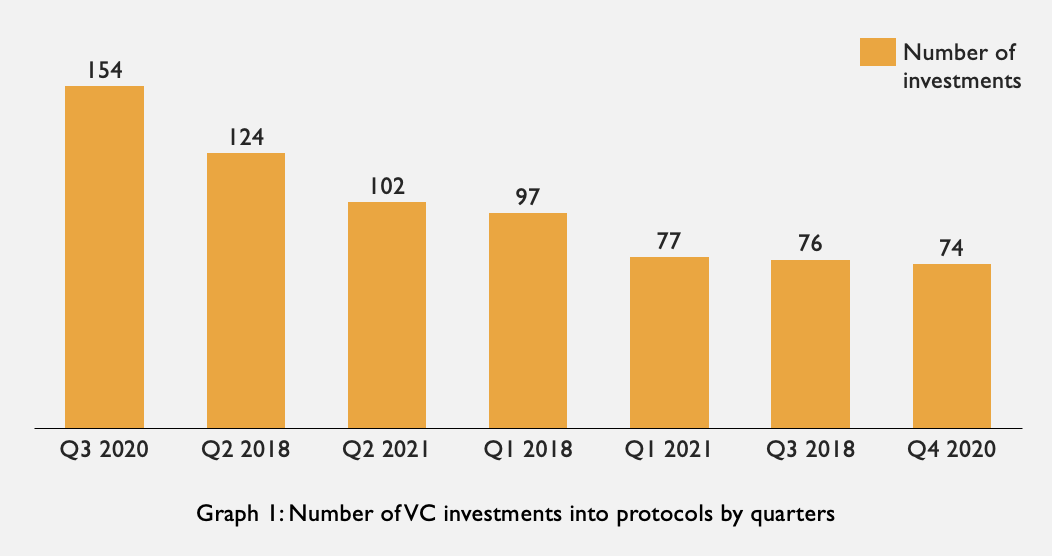
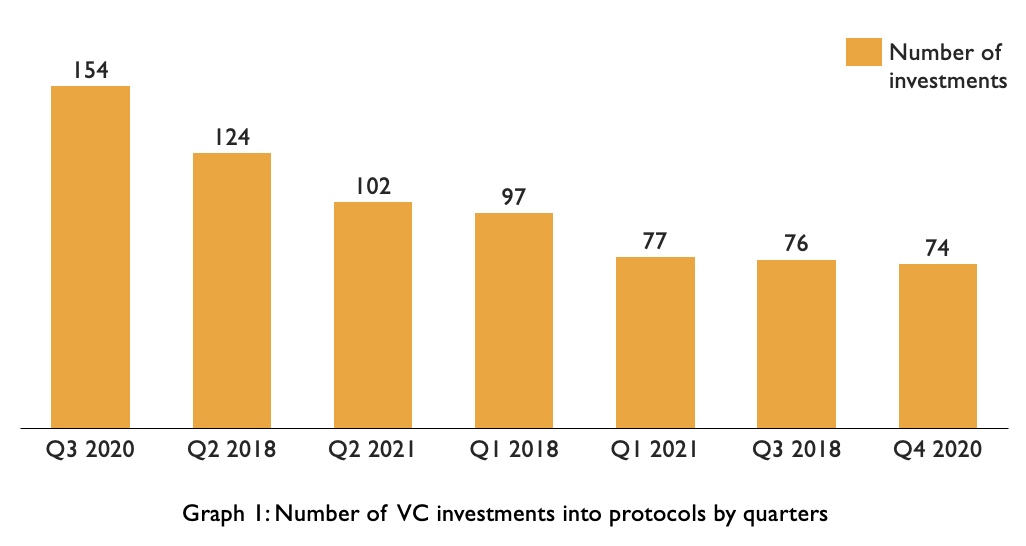
changed assets

diff --git a/reports/venture_capital_in_defi.md b/reports/venture_capital_in_defi.md
@@ -10,17 +10,24 @@ We analyzed data about VCs in decentralized finance to answer our questions. Her
 
 1. Venture capitalists are not safe from FOMO (Fear of Missing Out). The largest number of investments in crypto by venture capitalists was made during the periods when crypto was hyped the most.
 
-![graph2](assets/graph1.png)
+
+<p align="center">
+  <img width="400" height="250" src="assets/graph1.png">
+</p>
 
 Notes: When markets are over-heated founders raise more funds with inflated valuations.
 
 2. Some VC funds are attracted by asymmetric returns, but not by the prospects of the blockchain technology itself. To minimize their portfolio risk from the volatility of the crypto assets VC firms need to gradually sell their positions even before protocols find their market fits.
 
-![initforthetech.png](assets/initforthetech.png)
+<p align="center">
+  <img width="300" height="320" src="assets/initforthetech.png">
+</p>
 
 3. Venture capital investments in the crypto space accelerated in the last 3 years. 80%. of all the investments were attracted since 2017.
 
-![graph2](assets/graph2.png)
+<p align="center">
+  <img width="400" height="250" src="assets/graph2.png">
+</p>
 
 4. A small group of investors that include Pantera Capital, Digital Currency Group, Naval Ravikant started investing in blockchain startups back in 2014 which is considered early in crypto terms.
 
